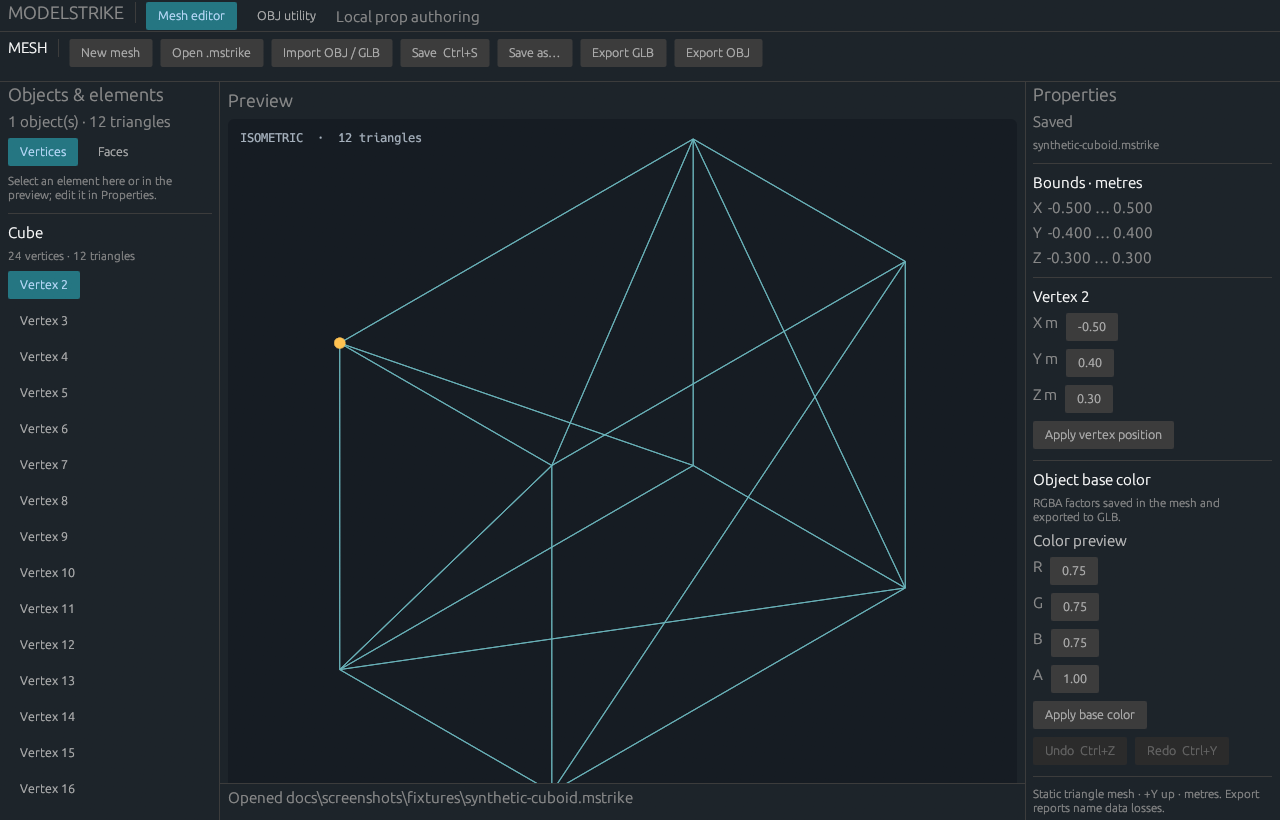
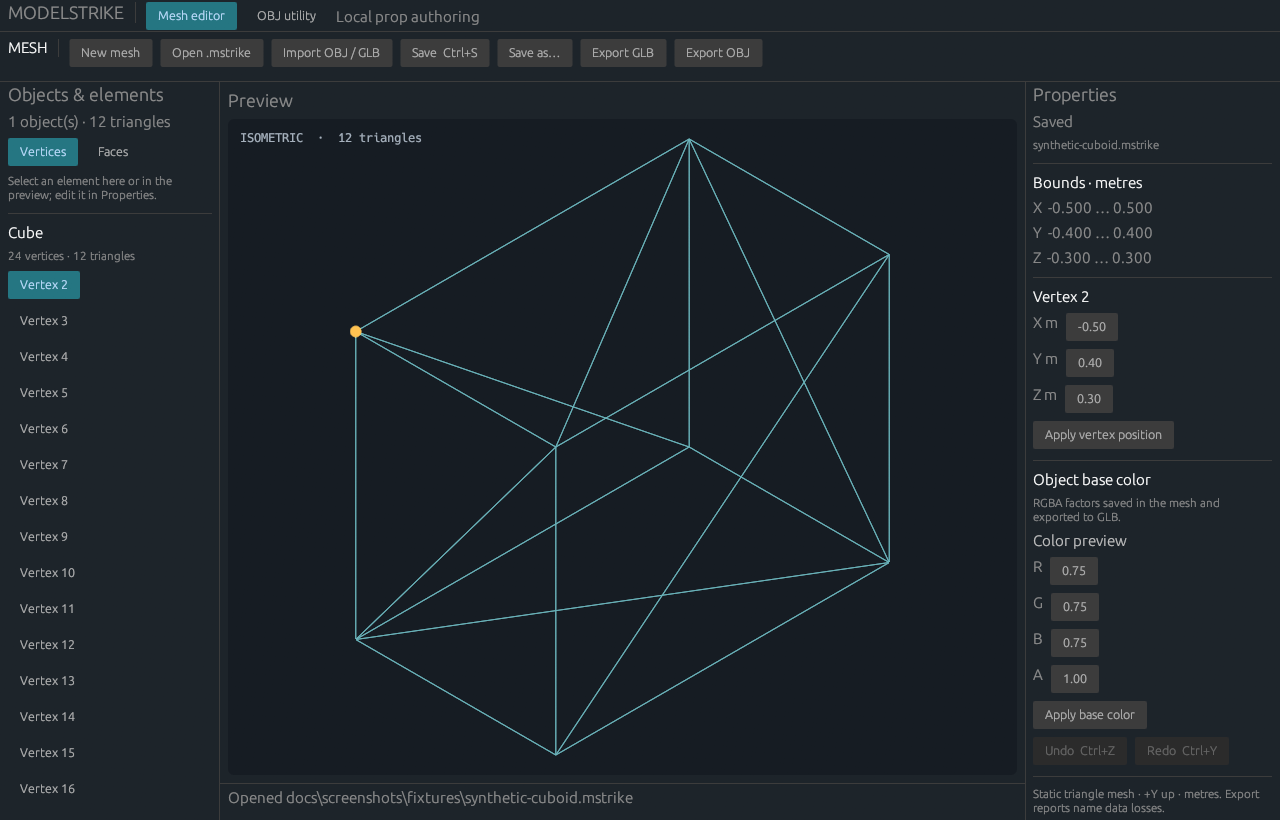
Replace clipped ModelStrike renderer preview

diff --git a/docs/screenshots/README.md b/docs/screenshots/README.md
@@ -2,15 +2,15 @@
 
 `modelstrike-mesh-editor.png` is an unedited 1280 × 820 capture from the running native egui renderer. The repository's `modelstrike-capture` target loads the same `ModelStrikeApp` used by the desktop UI, requests an egui screenshot after its second frame, writes the PNG, and closes. This is renderer evidence, not a record of a person interacting with the full app.
 
-- Source: public `main` commit [`605ae71e6cf89da490a393a7d5de2bf09ac5c6d3`](https://github.com/Gerbzz/ModelStrike/commit/605ae71e6cf89da490a393a7d5de2bf09ac5c6d3); no application source changes were made for the capture.
+- Capture source: commit [`39244ec15166ab5587727262ff415bcb534e0def`](https://github.com/Gerbzz/ModelStrike/commit/39244ec15166ab5587727262ff415bcb534e0def). Its narrow layout fix reserves the status bar before allocating the central preview. The first published capture in parent commit `86c4ae1` showed a clipped lower wireframe edge and was superseded.
 - Host and date: Office PC, 2026-10-15 UTC. Cargo 1.97.1 and rustc 1.97.1.
-- Build: offline and single job, with debug symbols and incremental compilation disabled. C: had 22.32 GiB free before the build and 21.32 GiB after capture, within the 6 GiB build-growth budget.
[2 lines of base64/hex data omitted]
+- Build: offline and single job, with debug symbols and incremental compilation disabled. The capture target was rebuilt from `39244ec` using cached dependencies. C: had 22.32 GiB free before the initial build and 21.09 GiB after the fix and recapture, within the 6 GiB build-growth budget.
[5 lines of base64/hex data omitted]
 
-Commands run from the repository root on the pinned source:
+Commands run from the repository root. The fixture and CLI were built at `605ae71`; the final capture target was rebuilt after the layout fix at `39244ec`:
 
 ```powershell
 $env:CARGO_PROFILE_DEV_DEBUG='0'
@@ -18,7 +18,10 @@ $env:CARGO_INCREMENTAL='0'
 cargo build --locked --offline --features native-ui --bin modelstrike-capture --bin modelstrike -j 1
 .\target\debug\modelstrike.exe mesh-new cube 1 0.8 0.6 docs\screenshots\fixtures\synthetic-cuboid.mstrike
 .\target\debug\modelstrike.exe mesh-info docs\screenshots\fixtures\synthetic-cuboid.mstrike
-.\target\debug\modelstrike-capture.exe docs\screenshots\fixtures\synthetic-cuboid.mstrike docs\screenshots\modelstrike-mesh-editor.png vertex:2
+# At source commit 39244ec, after its regression test passed:
+cargo build --locked --offline --features native-ui --bin modelstrike-capture -j 1
+.\target\debug\modelstrike-capture.exe docs\screenshots\fixtures\synthetic-cuboid.mstrike target\fixed-capture.png vertex:2
+Copy-Item -LiteralPath target\fixed-capture.png -Destination docs\screenshots\modelstrike-mesh-editor.png -Force
 ```
 
-The screenshot visibly shows the mesh editor, isometric wireframe, selected vertex 2, bounds, and properties. At this fixed viewport, the lower edge of the wireframe extends below the preview area. The capture does not exercise pointer input, native file dialogs, editing commands, save/reopen interaction, exports, accessibility, other window sizes, or installation.
+The screenshot visibly shows the mesh editor, the full isometric wireframe within its preview, selected vertex 2, bounds, and properties. A headless egui regression first reproduced the old preview bottom at y=812 in an 820-pixel window; after the panel-order fix it passed. The full native-feature suite passed 41 tests with `TEMP` and `TMP` set to a writable `target/test-tmp` directory. The default sandbox temp location caused unrelated file-writing tests to fail with access denied before that targeted rerun. The capture does not exercise pointer input, native file dialogs, editing commands, save/reopen interaction, exports, accessibility, other window sizes, or installation.

diff --git a/README.md b/README.md
@@ -19,7 +19,7 @@ ModelStrike helps creators inspect and reshape simple 3D prop geometry. Open an 
 
 ![Actual ModelStrike egui mesh editor renderer with a synthetic cuboid, isometric wireframe preview, selected vertex, and properties panel](docs/screenshots/modelstrike-mesh-editor.png)
 
-This image came from the app's [built-in renderer capture target](src/bin/modelstrike-capture.rs) running a [synthetic `.mstrike` cuboid](docs/screenshots/fixtures/synthetic-cuboid.mstrike). It shows one 1280 × 820 render of the native UI; the lower wireframe edge is clipped at this size. It does not demonstrate pointer interaction, file dialogs, exports, or installation. [Capture provenance](docs/screenshots/README.md) records the source commit, binary and fixture hashes, and the exact commands.
+This image came from the app's [built-in renderer capture target](src/bin/modelstrike-capture.rs) running a [synthetic `.mstrike` cuboid](docs/screenshots/fixtures/synthetic-cuboid.mstrike). It shows one 1280 × 820 render of the native UI with the whole wireframe visible above the status bar. It does not demonstrate pointer interaction, file dialogs, exports, or installation. [Capture provenance](docs/screenshots/README.md) records the source commit, binary and fixture hashes, and the exact commands.
 
 ## Highlights
 
@@ -94,7 +94,7 @@ The cube edge and transform values must be finite numbers; edge and scale must b
 
 ## Boundaries and direction
 
-ModelStrike does not import or export `.vmdl`, compile Source 2 assets, assign game materials, rig characters, or verify a prop in Counter-Strike. Face editing operates on triangles; it does not support arbitrary polygons, manifold repair, shaded orbit, or collision checks against other surfaces. The native editor uses a wireframe preview. One 1280 × 820 renderer view was inspected, including a clipped lower wireframe edge. Pointer behavior, other window sizes, keyboard and screen-reader access, and clean-machine installation have not been verified. Linux, macOS, and mobile platforms have not been tested.
+ModelStrike does not import or export `.vmdl`, compile Source 2 assets, assign game materials, rig characters, or verify a prop in Counter-Strike. Face editing operates on triangles; it does not support arbitrary polygons, manifold repair, shaded orbit, or collision checks against other surfaces. The native editor uses a wireframe preview. One 1280 × 820 renderer view was inspected with the full synthetic cuboid visible. Pointer behavior, other window sizes, keyboard and screen-reader access, and clean-machine installation have not been verified. Linux, macOS, and mobile platforms have not been tested.
 
 Potential next steps include richer mesh, material and collision workflows and a tested Valve-compatible asset path. These are roadmap ideas, not present capabilities.
 
